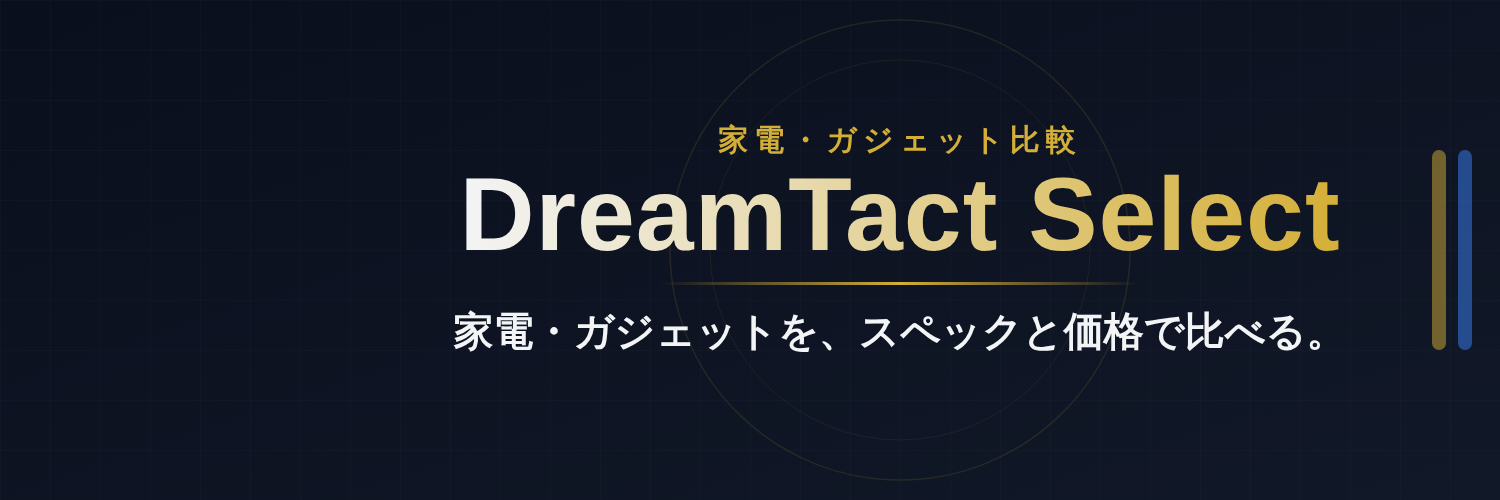
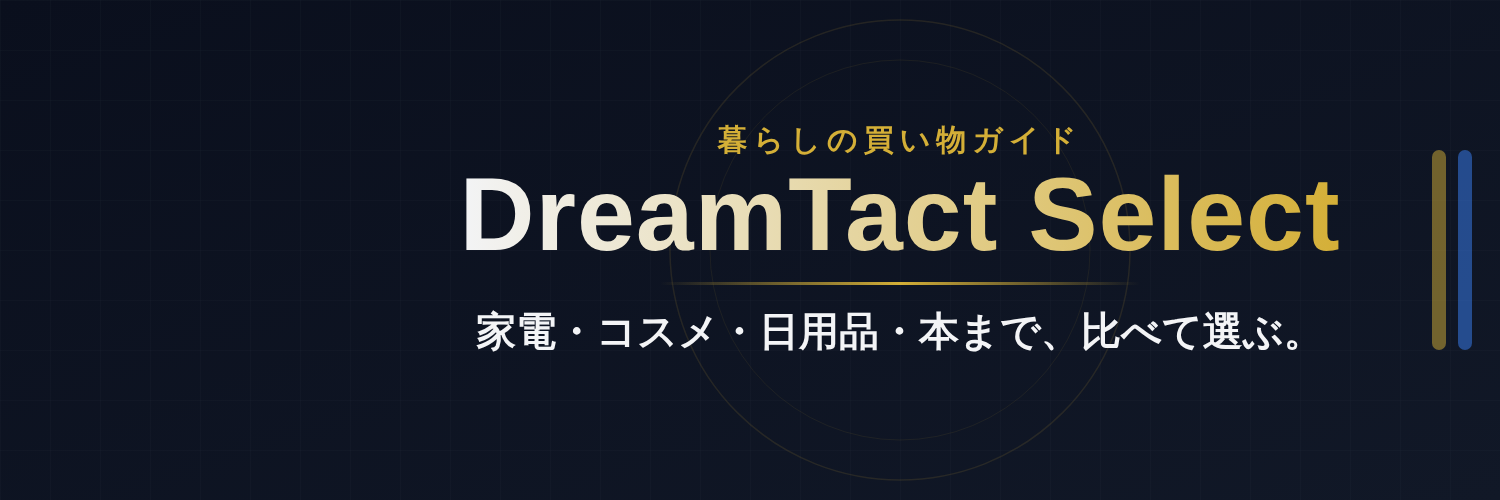
Broaden X header copy to all genres
Claude-Session: https://claude.ai/code/session_01XvLytRoPgXT38awoFZshL5

Changed region(s): [[0.3067, 0.6, 0.8893, 0.72], [0.46, 0.24, 0.736, 0.33]]

diff --git a/ops/design/2026-10-08-x-profile.md b/ops/design/2026-10-08-x-profile.md
@@ -3,7 +3,7 @@ status: draft
 # X（旧Twitter）プロフィール画像：アイコン／ヘッダー
 
 - 作成: designer（2026-10-07 作成、記録日付 2026-10-08）
-- 対象アカウント: 「DreamTact Select｜家電・ガジェット比較」（予定ユーザー名 @dreamtactselect、`ops/config.md` には未登録）
+- 対象アカウント: 「DreamTact Select｜暮らしの買い物ガイド」（予定ユーザー名 @dreamtactselect、`ops/config.md` には未登録）
 - ツール: SVGを手書き（Canva・Metricoolは不使用）
 - 審査: compliance 未審査。書き出し（PNG化）・Xへのアップロード・投稿はしていない
 
@@ -40,3 +40,7 @@ Xは SVG を受け付けないため、アップロード時は Noto Sans JP／O
 
 - 「スペックと価格で比べる」というコピーが、価格情報の正確さを保証する表現に読めないか
 - プロフィール画像に PR 表記が不要という判断（広告投稿には投稿文と画像で別途 PR を入れる運用）
+
+
+## 修正履歴
+- 2026-10-08：オーナーの方針（オールジャンルで運営）に合わせ、ヘッダーの文言を「暮らしの買い物ガイド」「家電・コスメ・日用品・本まで、比べて選ぶ。」に変更（指揮役）
